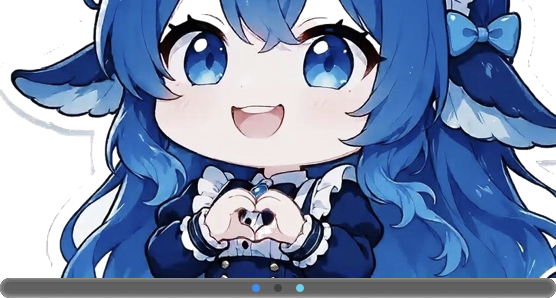
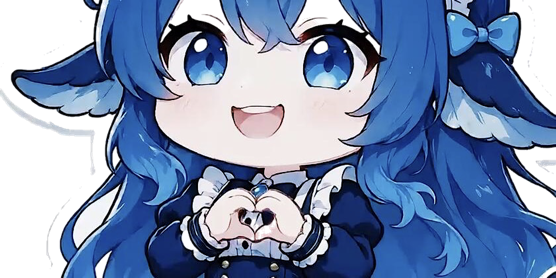
feat: collapsed state shows only the character
The collapsed card no longer renders a bar under the character: the
window shrinks to exactly the character height, the glass layer is
hidden, and the character is the only thing on screen.

- macOS: collapsedHeight = charHeight, effectView hidden while collapsed
- Windows: COLLAPSED_HEIGHT = CHARACTER_HEIGHT, #card display:none
- avatar asset now uses the original 840x420 crop upscaled 2x with a
  light luminance sharpen (was a 556px downscale)

diff --git a/Sources/AppDelegate.swift b/Sources/AppDelegate.swift
@@ -18,7 +18,7 @@ final class AppDelegate: NSObject, NSApplicationDelegate {
     static let hoverAlpha: CGFloat = 1.0
 
     /// 收起时只剩一条 10pt 高的细条
-    static var collapsedHeight: CGFloat { 10 + HUDContentView.charHeight }
+    static var collapsedHeight: CGFloat { HUDContentView.charHeight }
 
     private var window: HUDWindow!
     private var hud: HUDContentView!
@@ -57,10 +57,21 @@ final class AppDelegate: NSObject, NSApplicationDelegate {
            idx + 1 < CommandLine.arguments.count {
             let outPath = CommandLine.arguments[idx + 1]
             let wantCompact = CommandLine.arguments.contains("--compact-dump")
-            DispatchQueue.main.asyncAfter(deadline: .now() + 1.5) { [weak self] in
-                self?.setExpanded(!wantCompact)
+            self.trackingEnabled = false     // dump 时别让鼠标追踪改状态
+            DispatchQueue.main.asyncAfter(deadline: .now() + 4.0) { [weak self] in
+                guard let self, let win = self.window else { return }
+                if wantCompact {
+                    self.hud.compact = true
+                    self.effectView?.isHidden = true
+                    self.resize(to: Self.collapsedHeight)
+                } else {
+                    self.hud.compact = false
+                    self.effectView?.isHidden = false
+                    self.resize(to: max(60, HUDContentView.preferredHeight(for: self.lastItems)))
+                }
+                win.displayIfNeeded()
             }
-            DispatchQueue.main.asyncAfter(deadline: .now() + 2.0) { [weak self] in
+            DispatchQueue.main.asyncAfter(deadline: .now() + 4.5) { [weak self] in
                 guard let win = self?.window, let view = win.contentView else {
                     print("没有窗口"); exit(1)
                 }
@@ -225,12 +236,13 @@ final class AppDelegate: NSObject, NSApplicationDelegate {
         if on {
             hud.isHidden = false
             hud.compact = false
+            effectView.isHidden = false
             effectView.layer?.cornerRadius = HUDContentView.corner
             resize(to: max(60, HUDContentView.preferredHeight(for: lastItems)))
         } else {
             resize(to: Self.collapsedHeight)
-            hud.compact = true          // 收起时画一排小圆点，而不是纯色条
-            effectView.layer?.cornerRadius = 5
+            hud.compact = true          // 收起时只显示角色
+            effectView.isHidden = true
         }
         hud.needsDisplay = true
 

diff --git a/Sources/HUDView.swift b/Sources/HUDView.swift
@@ -86,13 +86,8 @@ final class HUDContentView: NSView {
         super.draw(dirtyRect)
 
         if compact {
-            // 收起态：角色仍然趴在上面，下面只是变成一条细线
-            let cardRect = NSRect(x: 0, y: Self.charHeight,
-                                  width: bounds.width,
-                                  height: max(1, bounds.height - Self.charHeight))
-            drawCharacter(in: NSRect(x: 0, y: 0, width: bounds.width, height: Self.charHeight))
-            drawGlass(in: cardRect, corner: 5)
-            drawCompactDots(baseY: Self.charHeight)
+            // 收起态：只剩角色本人，条和背景都不画
+            drawCharacter(in: bounds)
             return
         }
 

diff --git a/windows/electron/main.js b/windows/electron/main.js
@@ -20,7 +20,7 @@ const CARD_HEIGHT = 252;
 const CHARACTER_HEIGHT = 139;                       // 角色露出高度
 const OVERLAP = 25;                                 // 角色与卡片的重叠
 const FULL_HEIGHT = CHARACTER_HEIGHT + CARD_HEIGHT - OVERLAP;
-const COLLAPSED_HEIGHT = CHARACTER_HEIGHT + 10;   // 收起时角色仍趴在细条上
+const COLLAPSED_HEIGHT = CHARACTER_HEIGHT;   // 收起时只剩角色
 const EXPAND_DELTA = FULL_HEIGHT - COLLAPSED_HEIGHT;
 const IDLE_ALPHA = 0.18;
 const HOVER_ALPHA = 1.0;

diff --git a/windows/renderer/style.css b/windows/renderer/style.css
@@ -261,12 +261,11 @@ body.collapsed .dots {
 }
 
 body.collapsed #character {
-  bottom: 10px;          /* 贴在细条上沿 */
+  bottom: 0;
 }
 
 body.collapsed #card {
-  height: 10px;
-  border-radius: 5px;
+  display: none;
 }
 
 .dot {

diff --git a/.baoyu-skills/baoyu-image-gen/EXTEND.md b/.baoyu-skills/baoyu-image-gen/EXTEND.md
@@ -1,0 +1,2 @@
+default_provider: codex-cli
+default_quality: 2k
